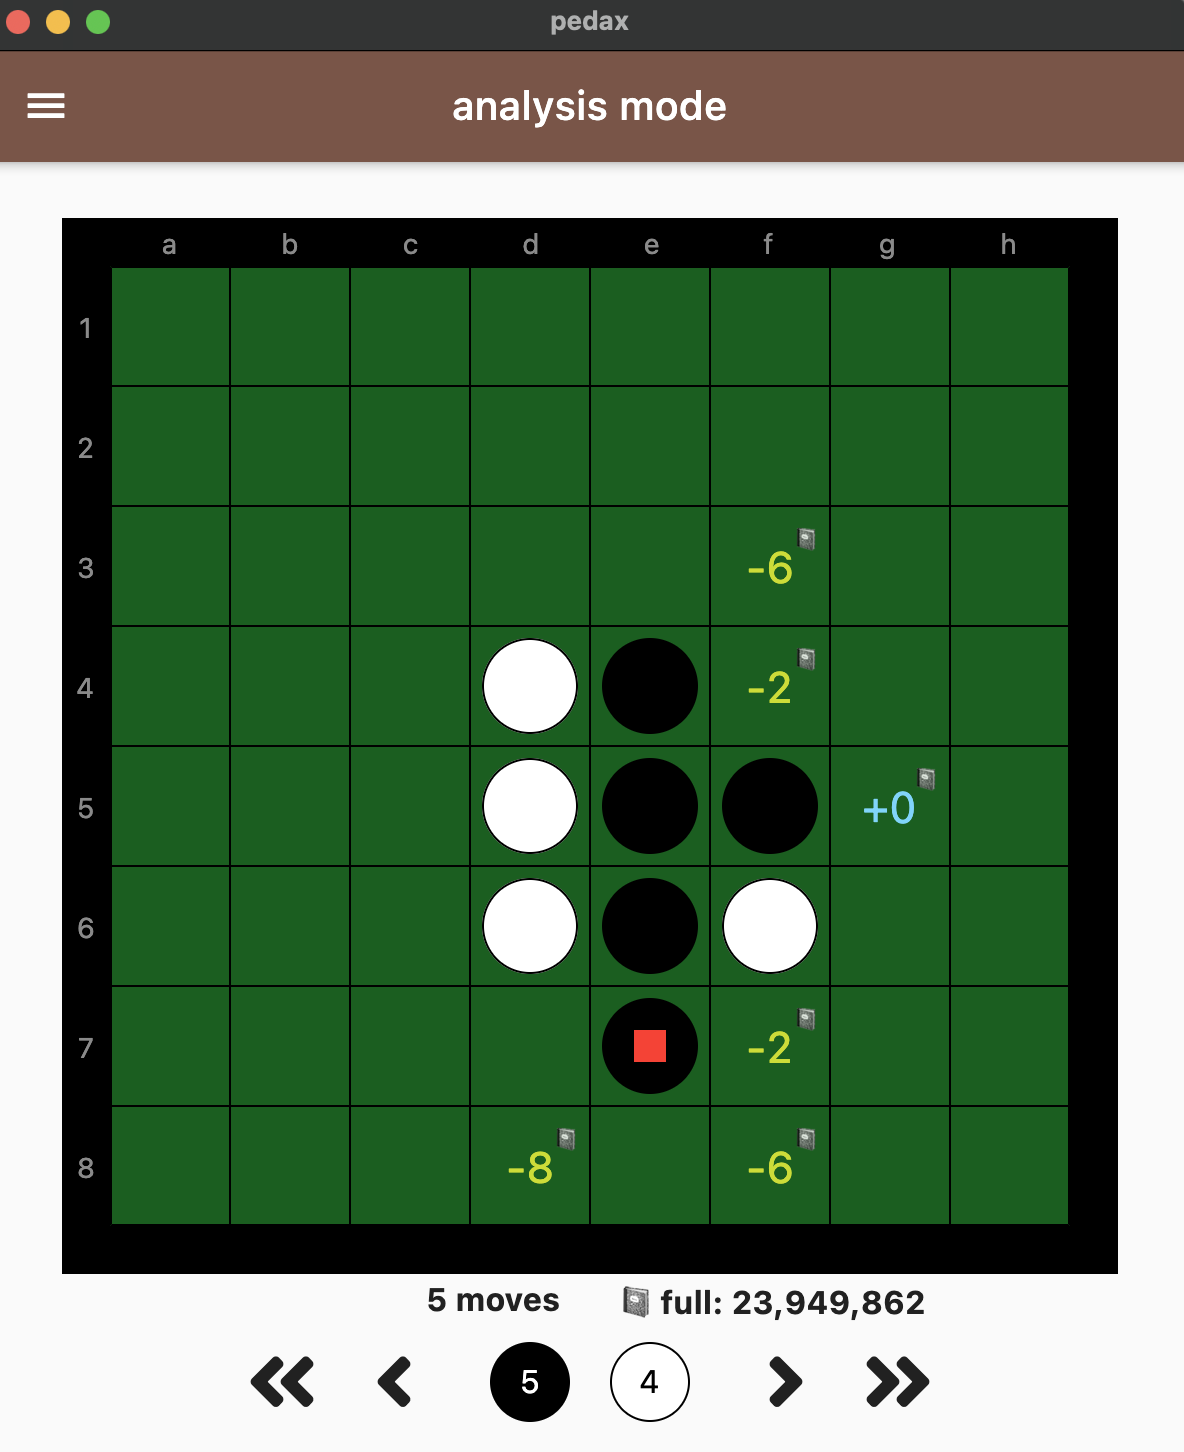
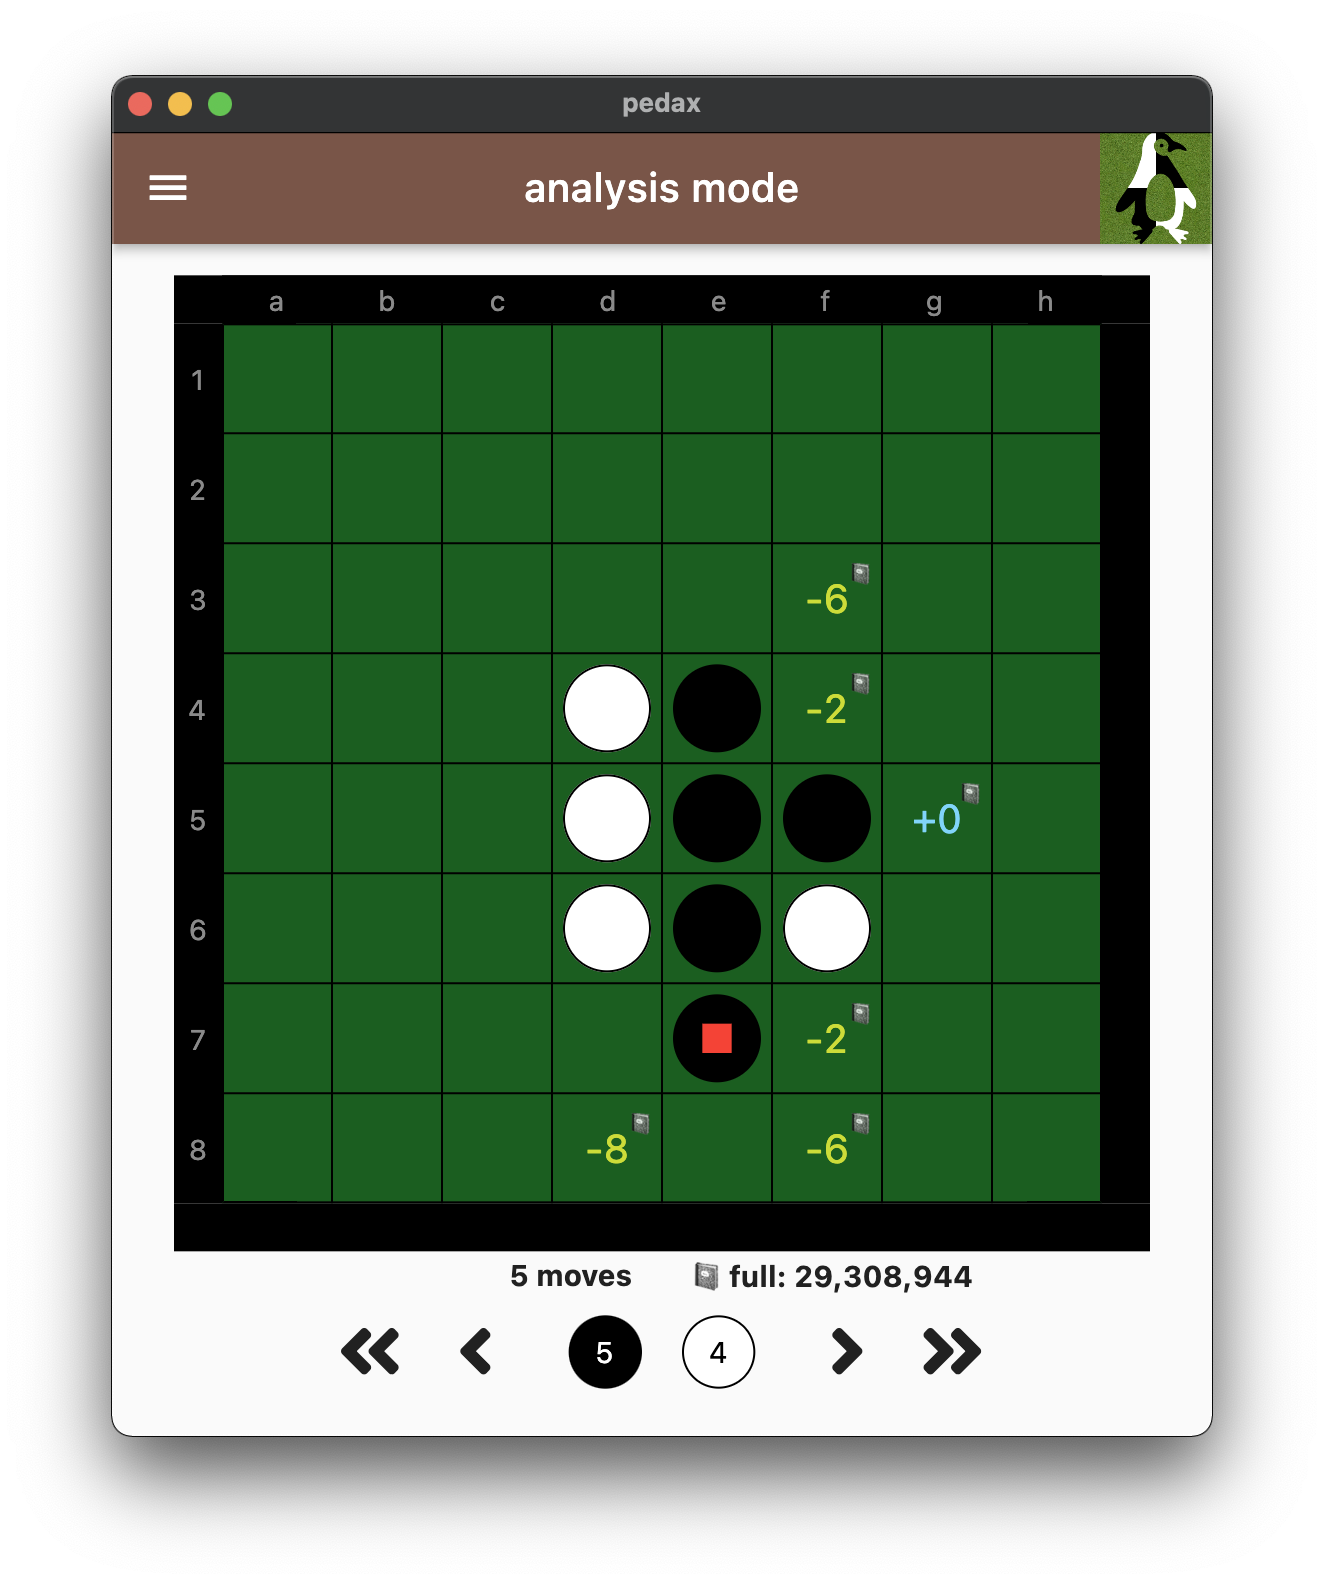
update screenshot on website (#179)
* update screenshot

* change feature image height

diff --git a/website/src/pages/styles.module.css b/website/src/pages/styles.module.css
@@ -32,7 +32,7 @@
 }
 
 .featureImage {
-  height: 400px;
+  height: 550px;
 }
 
 .storeImage {
